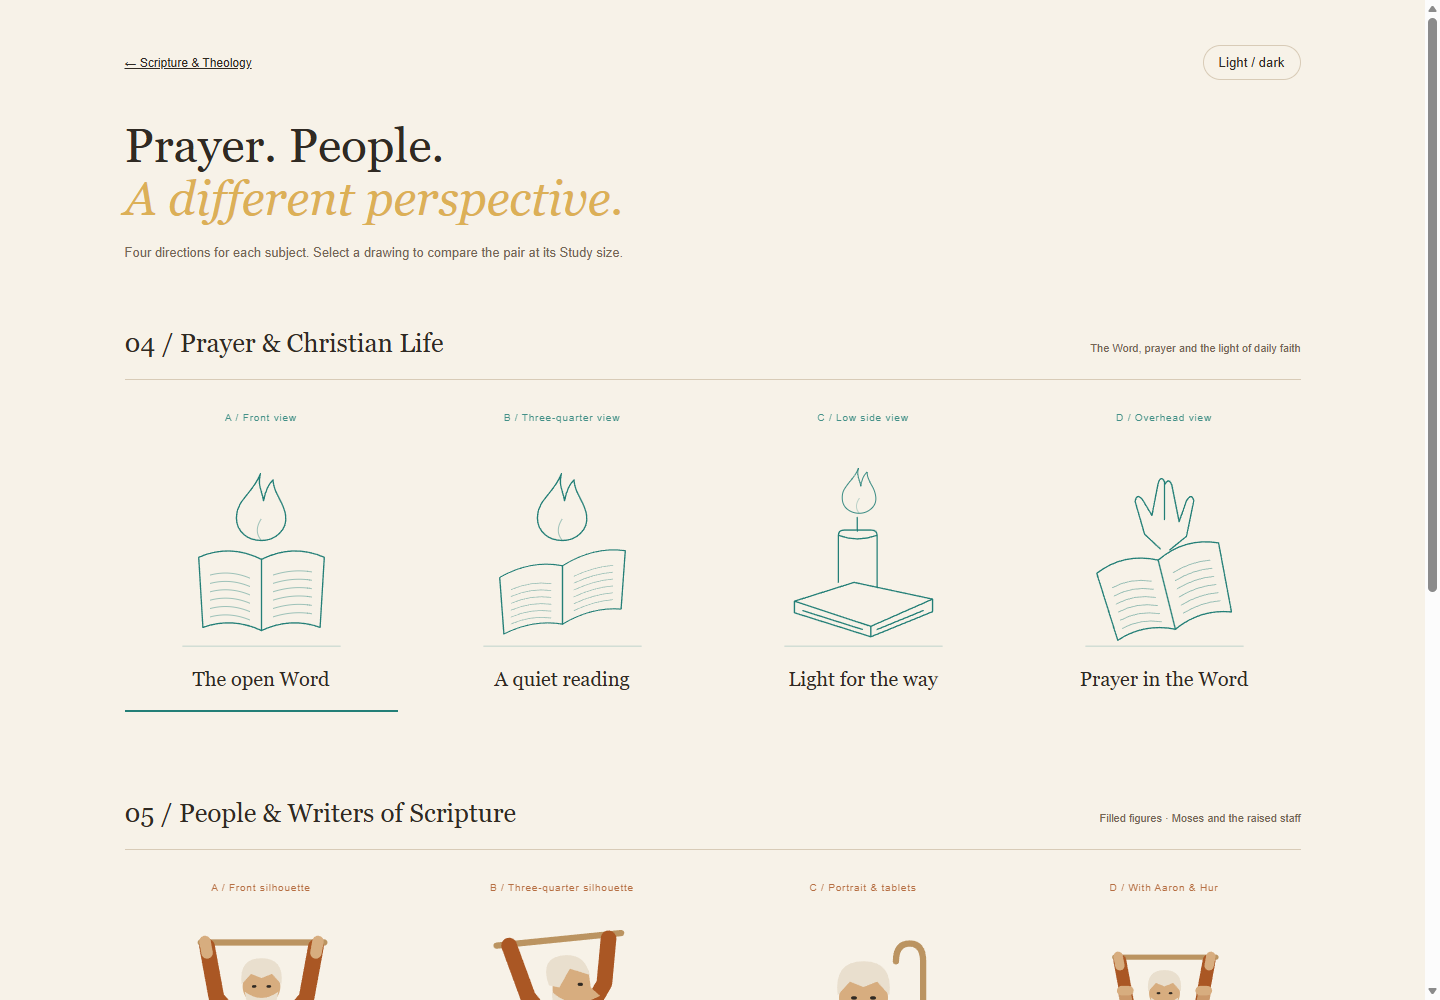
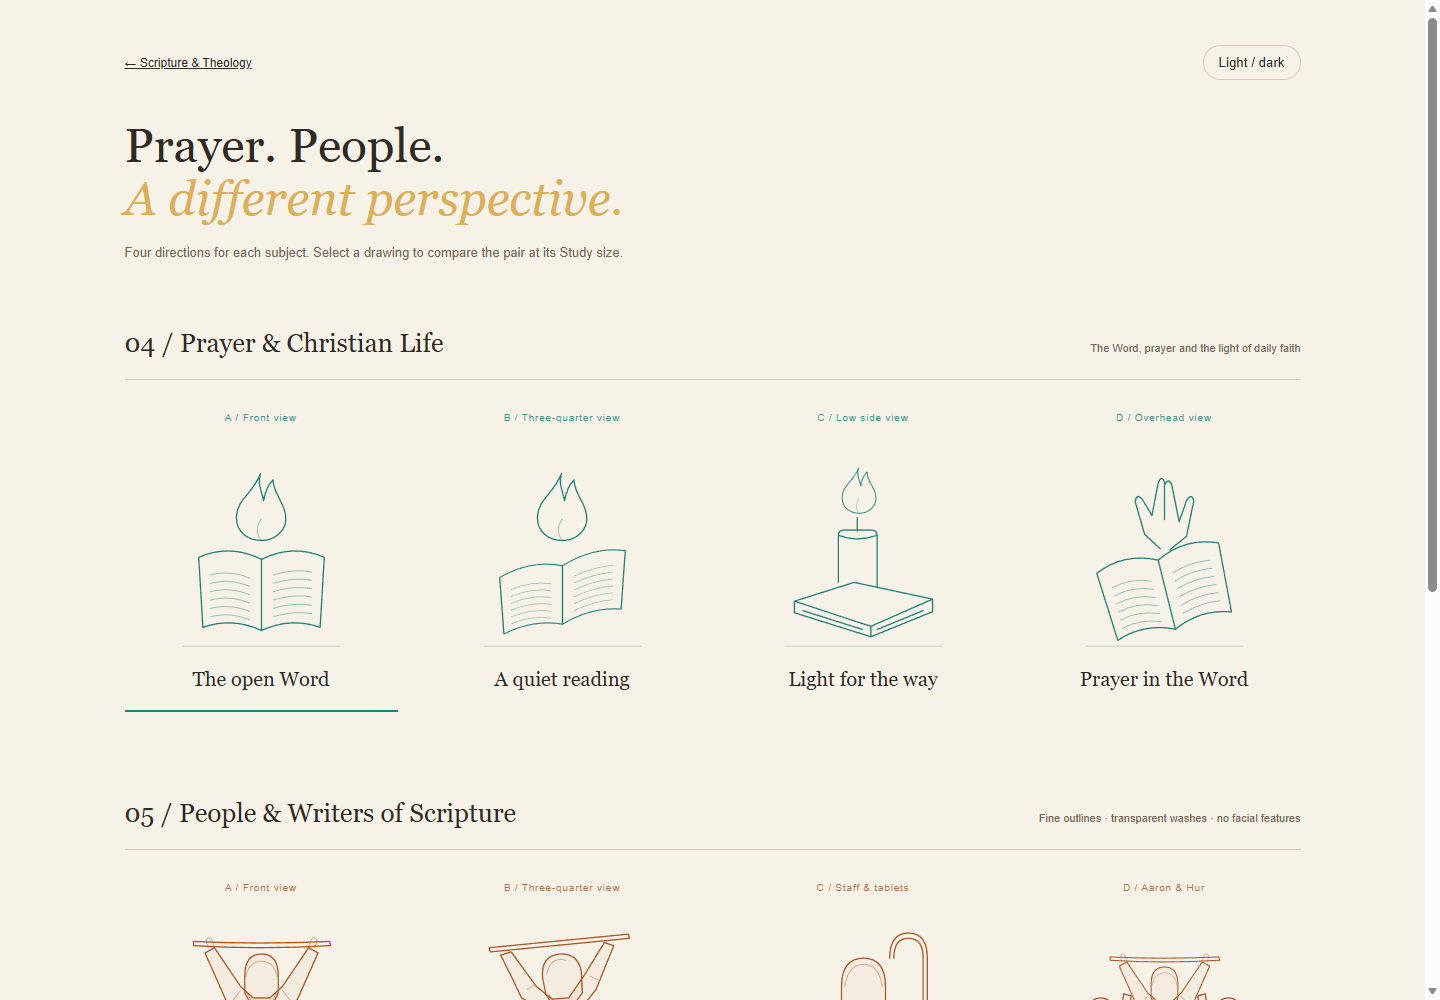
Redraw Moses variants as faceless transparent line art

diff --git a/design/study-prayer-writers-variants/index.html b/design/study-prayer-writers-variants/index.html
@@ -1,3 +1,3 @@
 <!doctype html><html lang="en"><head><meta charset="utf-8"><meta name="viewport" content="width=device-width,initial-scale=1"><title>Study · Prayer and writers variations</title><style>
 *{box-sizing:border-box}body{margin:0;background:#12110f;color:#eee7d9;font-family:Arial,sans-serif;--ink:#eee7d9;--muted:#a99b87;--line:#373128;--teal:#61c9bf;--orange:#e9a06b}.light{background:#f7f2e8;color:#302a23;--ink:#302a23;--muted:#746654;--line:#d8cbb7;--teal:#237f77;--orange:#aa5724}main{max-width:1240px;margin:auto;padding:45px 32px}nav{display:flex;justify-content:space-between;align-items:center;font-size:12px}a{color:inherit}nav button{background:none;color:inherit;border:1px solid var(--line);border-radius:22px;padding:9px 15px;cursor:pointer}h1{font:48px/1.1 Georgia,serif;margin:40px 0 15px}h1 em{color:#dcb057;font-weight:normal}p{color:var(--muted);font-size:13px;line-height:1.8}.section-head{display:flex;justify-content:space-between;align-items:baseline;gap:20px;border-bottom:1px solid var(--line);margin-top:42px}h2{font:26px Georgia,serif}.section-head span{font-size:11px;color:var(--muted)}.options{display:grid;grid-template-columns:repeat(4,1fr);gap:28px;padding:22px 0}.option{border:0;background:none;color:var(--teal);padding:10px 0 20px;cursor:pointer;text-align:center;border-bottom:2px solid transparent}.option.writers{color:var(--orange)}.code{font-size:10px;letter-spacing:.08em;display:block;opacity:.85}.option svg{width:100%;height:225px;display:block;margin:16px auto 4px;transition:transform .25s,filter .25s}svg{fill:none;stroke:currentColor;stroke-width:1.25;stroke-linecap:round;stroke-linejoin:round}.fine{opacity:.45;stroke-width:.9}.ground{opacity:.2}.option strong{font:20px Georgia,serif;color:var(--ink)}.option:hover svg{transform:translateY(-4px);filter:drop-shadow(0 0 8px color-mix(in srgb,currentColor 20%,transparent))}.option:focus-visible{outline:1px solid currentColor;outline-offset:5px}.option[aria-pressed=true]{border-bottom-color:currentColor}.preview{margin-top:35px;border-top:1px solid var(--line);padding-top:25px;display:grid;grid-template-columns:1fr 1fr;gap:60px}.preview h3{font:25px Georgia,serif}.selected{color:var(--teal)}.selected.writers{color:var(--orange)}.selected svg{display:block;width:200px;height:215px;margin:20px auto}.preview p{text-align:center}.label{font-size:10px;letter-spacing:.12em;color:var(--muted)}@media(max-width:700px){main{padding:24px 20px}h1{font-size:36px}.options{grid-template-columns:1fr 1fr;gap:20px}.option svg{height:190px}.section-head{display:block}.section-head span{display:block;margin-bottom:15px}.preview{gap:18px}.selected svg{width:100%}.preview h3{font-size:20px}}@media(prefers-reduced-motion:reduce){.option svg{transition:none}.option:hover svg{transform:none}}
-.filled-people{stroke:none;--skin:#d7ad7f;--hair:#ddd3bc;--robe:#956341;--wood:#bb9461;--stone:#b5a389;--ground:#12110f}.light .filled-people{--robe:#cb986a;--hair:#e9dfce;--ground:#302a23} </style></head><body><main><nav><a href="/study/theology">← Scripture &amp; Theology</a><button id="theme">Light / dark</button></nav><h1>Prayer. People.<br><em>A different perspective.</em></h1><p>Four directions for each subject. Select a drawing to compare the pair at its Study size.</p><section><div class="section-head"><h2>04 / Prayer &amp; Christian Life</h2><span>The Word, prayer and the light of daily faith</span></div><div class="options"><button class="option prayer" data-code="PRAYER A" data-title="The open Word"><span class="code">A / Front view</span><svg viewBox="0 0 200 215" aria-hidden="true"><path d="M40 113q30-13 60 2q30-15 60-2l-4 67q-28-10-56 3q-28-13-56-3Z"/><path d="M100 115v68"/><path class="fine" d="M51 130q19-5 38 3m22-3q19-6 37-3"/><path class="fine" d="M51 138q19-5 38 3m22-3q19-6 37-3"/><path class="fine" d="M51 146q19-5 38 3m22-3q19-6 37-3"/><path class="fine" d="M51 154q19-5 38 3m22-3q19-6 37-3"/><path class="fine" d="M51 162q19-5 38 3m22-3q19-6 37-3"/><path class="fine" d="M51 170q19-5 38 3m22-3q19-6 37-3"/><path d="M99 33c-7 19-23 25-23 42 0 14 11 22 24 22s25-10 23-24c-1-12-12-21-12-34-7 7-8 15-9 20-2-11-6-15-3-26Z"/><path class="fine" d="M100 76q-8 12 0 21"/><path class="ground" d="M25 198h150"/></svg><strong>The open Word</strong></button><button class="option prayer" data-code="PRAYER B" data-title="A quiet reading"><span class="code">B / Three-quarter view</span><svg viewBox="0 0 200 215" aria-hidden="true"><g transform="translate(100 149) skewY(-12) scale(1 .82) translate(-100 -149)"><path d="M40 113q30-13 60 2q30-15 60-2l-4 67q-28-10-56 3q-28-13-56-3Z"/><path d="M100 115v68"/><path class="fine" d="M51 130q19-5 38 3m22-3q19-6 37-3"/><path class="fine" d="M51 138q19-5 38 3m22-3q19-6 37-3"/><path class="fine" d="M51 146q19-5 38 3m22-3q19-6 37-3"/><path class="fine" d="M51 154q19-5 38 3m22-3q19-6 37-3"/><path class="fine" d="M51 162q19-5 38 3m22-3q19-6 37-3"/><path class="fine" d="M51 170q19-5 38 3m22-3q19-6 37-3"/></g><path d="M99 33c-7 19-23 25-23 42 0 14 11 22 24 22s25-10 23-24c-1-12-12-21-12-34-7 7-8 15-9 20-2-11-6-15-3-26Z"/><path class="fine" d="M100 76q-8 12 0 21"/><path class="ground" d="M25 198h150"/></svg><strong>A quiet reading</strong></button><button class="option prayer" data-code="PRAYER C" data-title="Light for the way"><span class="code">C / Low side view</span><svg viewBox="0 0 200 215" aria-hidden="true"><path d="M34 155 91 137l75 16-59 26Z M34 155v11l73 23 59-24v-12M107 179v10M42 164l57 18m14 0 44-18"/><path d="M76 137V92q0-5 6-5h25q6 0 6 5v50M76 92q18 7 37 0M94 88V75"/><g transform="translate(28 5) scale(.68)"><path d="M99 33c-7 19-23 25-23 42 0 14 11 22 24 22s25-10 23-24c-1-12-12-21-12-34-7 7-8 15-9 20-2-11-6-15-3-26Z"/><path class="fine" d="M100 76q-8 12 0 21"/></g><path class="ground" d="M25 198h150"/></svg><strong>Light for the way</strong></button><button class="option prayer" data-code="PRAYER D" data-title="Prayer in the Word"><span class="code">D / Overhead view</span><svg viewBox="0 0 200 215" aria-hidden="true"><g transform="rotate(-14 100 140)"><path d="M40 113q30-13 60 2q30-15 60-2l-4 67q-28-10-56 3q-28-13-56-3Z"/><path d="M100 115v68"/><path class="fine" d="M51 130q19-5 38 3m22-3q19-6 37-3"/><path class="fine" d="M51 138q19-5 38 3m22-3q19-6 37-3"/><path class="fine" d="M51 146q19-5 38 3m22-3q19-6 37-3"/><path class="fine" d="M51 154q19-5 38 3m22-3q19-6 37-3"/><path class="fine" d="M51 162q19-5 38 3m22-3q19-6 37-3"/><path class="fine" d="M51 170q19-5 38 3m22-3q19-6 37-3"/></g><path d="M88 73 94 42q3-8 6-1v36m0-33q4-8 7 0l7 35m-26-6-9-15q-6-7-7 2l9 31 15 14m18-26 7-20q5-8 7 0l-7 34-16 13"/><path class="ground" d="M25 198h150"/></svg><strong>Prayer in the Word</strong></button></div></section><section><div class="section-head"><h2>05 / People &amp; Writers of Scripture</h2><span>Filled figures · Moses and the raised staff</span></div><div class="options"><button class="option writers" data-code="WRITERS A" data-title="Moses · staff raised"><span class="code">A / Front silhouette</span><svg class="filled-people" viewBox="0 0 200 215" aria-hidden="true"><path d="M42 32h118" stroke="var(--wood)" stroke-width="6" stroke-linecap="round"/><path d="M82 114 57 85 48 36m70 78 25-29 9-49" stroke="currentColor" stroke-width="15" stroke-linecap="round"/><path d="m48 42-2-11m106 11 2-11" stroke="var(--skin)" stroke-width="11" stroke-linecap="round"/><path d="M80 105q20-9 40 0l16 84H64Z" fill="currentColor"/><path d="M86 108l14 29 15-29-7 81H85Z" fill="var(--robe)"/><path d="M91 139v41m21-40-3 39" stroke="var(--ground)" opacity=".3"/><circle cx="100" cy="74" r="18" fill="var(--skin)"/><path d="M81 72q-3-25 19-25t19 25l-9-10-10 4-10-4Z" fill="var(--hair)"/><path d="M84 79q16 12 32 0l-4 22-12 10-12-10Z" fill="var(--hair)"/><path d="M92 74h2m12 0h2" stroke="var(--ground)" stroke-width="2.5"/></svg><strong>Moses · staff raised</strong></button><button class="option writers" data-code="WRITERS B" data-title="Moses · on the hill"><span class="code">B / Three-quarter silhouette</span><svg class="filled-people" viewBox="0 0 200 215" aria-hidden="true"><g transform="translate(8 0)"><path d="M29 35 148 23" stroke="var(--wood)" stroke-width="6"/><path d="M85 116 59 84 41 35m65 81 26-45 4-43" stroke="currentColor" stroke-width="15" stroke-linecap="round"/><path d="M80 105q20-9 40 0l16 84H64Z" fill="currentColor"/><path d="M86 108l14 29 15-29-7 81H85Z" fill="var(--robe)"/><path d="M91 139v41m21-40-3 39" stroke="var(--ground)" opacity=".3"/><path d="M82 58q23-19 35 2l2 15 9 8-11 5-2 16-17 5-15-19Z" fill="var(--skin)"/><path d="M82 79q14 14 35 9l-3 17-15 13-16-22Z" fill="var(--hair)"/><path d="M79 73q-10-28 17-29 18 0 22 19l-19-6-10 18Z" fill="var(--hair)"/><path d="M108 72h2" stroke="var(--ground)" stroke-width="3"/></g></svg><strong>Moses · on the hill</strong></button><button class="option writers" data-code="WRITERS C" data-title="Moses · the lawgiver"><span class="code">C / Portrait & tablets</span><svg class="filled-people" viewBox="0 0 200 215" aria-hidden="true"><path d="M48 185q0-69 52-69t52 69Z" fill="currentColor"/><path d="m82 118 18 32 18-32-6 67H85Z" fill="var(--robe)"/><g transform="translate(100 85) scale(1.3) translate(-100 -74)"><circle cx="100" cy="74" r="18" fill="var(--skin)"/><path d="M81 72q-3-25 19-25t19 25l-9-10-10 4-10-4Z" fill="var(--hair)"/><path d="M84 79q16 12 32 0l-4 22-12 10-12-10Z" fill="var(--hair)"/><path d="M92 74h2m12 0h2" stroke="var(--ground)" stroke-width="2.5"/></g><path d="M157 187V50q0-17-13-17t-13 17" stroke="var(--wood)" stroke-width="6"/><path d="M67 145h37v45H67Zm40 0h30v45h-30Z" fill="var(--stone)"/><path d="M73 156h24m-24 9h24m-24 9h24m17-18h16m-16 9h16m-16 9h16" stroke="var(--ground)" opacity=".45"/></svg><strong>Moses · the lawgiver</strong></button><button class="option writers" data-code="WRITERS D" data-title="Moses · supported hands"><span class="code">D / With Aaron & Hur</span><svg class="filled-people" viewBox="0 0 200 215" aria-hidden="true"><g transform="translate(100 110) scale(.82) translate(-100 -110)"><path d="M42 32h118" stroke="var(--wood)" stroke-width="6" stroke-linecap="round"/><path d="M82 114 57 85 48 36m70 78 25-29 9-49" stroke="currentColor" stroke-width="15" stroke-linecap="round"/><path d="m48 42-2-11m106 11 2-11" stroke="var(--skin)" stroke-width="11" stroke-linecap="round"/><path d="M80 105q20-9 40 0l16 84H64Z" fill="currentColor"/><path d="M86 108l14 29 15-29-7 81H85Z" fill="var(--robe)"/><path d="M91 139v41m21-40-3 39" stroke="var(--ground)" opacity=".3"/><circle cx="100" cy="74" r="18" fill="var(--skin)"/><path d="M81 72q-3-25 19-25t19 25l-9-10-10 4-10-4Z" fill="var(--hair)"/><path d="M84 79q16 12 32 0l-4 22-12 10-12-10Z" fill="var(--hair)"/><path d="M92 74h2m12 0h2" stroke="var(--ground)" stroke-width="2.5"/></g><path d="M30 189v-45q0-20 15-20t15 20v45Z M140 189v-45q0-20 15-20t15 20v45Z" fill="var(--robe)"/><circle cx="45" cy="106" r="14" fill="var(--skin)"/><circle cx="155" cy="106" r="14" fill="var(--skin)"/><path d="M35 109q10 8 20 0v13H35Zm110 0q10 8 20 0v13h-20Z" fill="var(--hair)"/><path d="M52 140 66 104 62 81m86 59-14-36 4-23" stroke="var(--robe)" stroke-width="12" stroke-linecap="round"/><path d="M59 78h7m68 0h7" stroke="var(--skin)" stroke-width="9"/></svg><strong>Moses · supported hands</strong></button></div></section><div class="preview"><div class="selected prayer"><span class="label">04 / SELECTED DIRECTION</span><div class="art"></div><h3>Prayer &amp; Christian Life</h3><p></p></div><div class="selected writers"><span class="label">05 / SELECTED DIRECTION</span><div class="art"></div><h3>People &amp; Writers of Scripture</h3><p></p></div></div></main><script>document.querySelector('#theme').onclick=()=>document.body.classList.toggle('light');for(const kind of ['prayer','writers']){const buttons=[...document.querySelectorAll('.option.'+kind)];for(const button of buttons)button.onclick=()=>{buttons.forEach(b=>b.setAttribute('aria-pressed',String(b===button)));document.querySelector('.selected.'+kind+' .art').innerHTML=button.querySelector('svg').outerHTML;document.querySelector('.selected.'+kind+' p').textContent=button.dataset.code+' · '+button.dataset.title};buttons[0].click()}</script></body></html>
+.moses-lines{fill:none;stroke:currentColor;stroke-width:1.25}.moses-lines .wash{fill:currentColor;fill-opacity:.045}.moses-lines .detail{stroke-width:.85;opacity:.5}.moses-lines .ground{stroke-width:.8;opacity:.25} </style></head><body><main><nav><a href="/study/theology">← Scripture &amp; Theology</a><button id="theme">Light / dark</button></nav><h1>Prayer. People.<br><em>A different perspective.</em></h1><p>Four directions for each subject. Select a drawing to compare the pair at its Study size.</p><section><div class="section-head"><h2>04 / Prayer &amp; Christian Life</h2><span>The Word, prayer and the light of daily faith</span></div><div class="options"><button class="option prayer" data-code="PRAYER A" data-title="The open Word"><span class="code">A / Front view</span><svg viewBox="0 0 200 215" aria-hidden="true"><path d="M40 113q30-13 60 2q30-15 60-2l-4 67q-28-10-56 3q-28-13-56-3Z"/><path d="M100 115v68"/><path class="fine" d="M51 130q19-5 38 3m22-3q19-6 37-3"/><path class="fine" d="M51 138q19-5 38 3m22-3q19-6 37-3"/><path class="fine" d="M51 146q19-5 38 3m22-3q19-6 37-3"/><path class="fine" d="M51 154q19-5 38 3m22-3q19-6 37-3"/><path class="fine" d="M51 162q19-5 38 3m22-3q19-6 37-3"/><path class="fine" d="M51 170q19-5 38 3m22-3q19-6 37-3"/><path d="M99 33c-7 19-23 25-23 42 0 14 11 22 24 22s25-10 23-24c-1-12-12-21-12-34-7 7-8 15-9 20-2-11-6-15-3-26Z"/><path class="fine" d="M100 76q-8 12 0 21"/><path class="ground" d="M25 198h150"/></svg><strong>The open Word</strong></button><button class="option prayer" data-code="PRAYER B" data-title="A quiet reading"><span class="code">B / Three-quarter view</span><svg viewBox="0 0 200 215" aria-hidden="true"><g transform="translate(100 149) skewY(-12) scale(1 .82) translate(-100 -149)"><path d="M40 113q30-13 60 2q30-15 60-2l-4 67q-28-10-56 3q-28-13-56-3Z"/><path d="M100 115v68"/><path class="fine" d="M51 130q19-5 38 3m22-3q19-6 37-3"/><path class="fine" d="M51 138q19-5 38 3m22-3q19-6 37-3"/><path class="fine" d="M51 146q19-5 38 3m22-3q19-6 37-3"/><path class="fine" d="M51 154q19-5 38 3m22-3q19-6 37-3"/><path class="fine" d="M51 162q19-5 38 3m22-3q19-6 37-3"/><path class="fine" d="M51 170q19-5 38 3m22-3q19-6 37-3"/></g><path d="M99 33c-7 19-23 25-23 42 0 14 11 22 24 22s25-10 23-24c-1-12-12-21-12-34-7 7-8 15-9 20-2-11-6-15-3-26Z"/><path class="fine" d="M100 76q-8 12 0 21"/><path class="ground" d="M25 198h150"/></svg><strong>A quiet reading</strong></button><button class="option prayer" data-code="PRAYER C" data-title="Light for the way"><span class="code">C / Low side view</span><svg viewBox="0 0 200 215" aria-hidden="true"><path d="M34 155 91 137l75 16-59 26Z M34 155v11l73 23 59-24v-12M107 179v10M42 164l57 18m14 0 44-18"/><path d="M76 137V92q0-5 6-5h25q6 0 6 5v50M76 92q18 7 37 0M94 88V75"/><g transform="translate(28 5) scale(.68)"><path d="M99 33c-7 19-23 25-23 42 0 14 11 22 24 22s25-10 23-24c-1-12-12-21-12-34-7 7-8 15-9 20-2-11-6-15-3-26Z"/><path class="fine" d="M100 76q-8 12 0 21"/></g><path class="ground" d="M25 198h150"/></svg><strong>Light for the way</strong></button><button class="option prayer" data-code="PRAYER D" data-title="Prayer in the Word"><span class="code">D / Overhead view</span><svg viewBox="0 0 200 215" aria-hidden="true"><g transform="rotate(-14 100 140)"><path d="M40 113q30-13 60 2q30-15 60-2l-4 67q-28-10-56 3q-28-13-56-3Z"/><path d="M100 115v68"/><path class="fine" d="M51 130q19-5 38 3m22-3q19-6 37-3"/><path class="fine" d="M51 138q19-5 38 3m22-3q19-6 37-3"/><path class="fine" d="M51 146q19-5 38 3m22-3q19-6 37-3"/><path class="fine" d="M51 154q19-5 38 3m22-3q19-6 37-3"/><path class="fine" d="M51 162q19-5 38 3m22-3q19-6 37-3"/><path class="fine" d="M51 170q19-5 38 3m22-3q19-6 37-3"/></g><path d="M88 73 94 42q3-8 6-1v36m0-33q4-8 7 0l7 35m-26-6-9-15q-6-7-7 2l9 31 15 14m18-26 7-20q5-8 7 0l-7 34-16 13"/><path class="ground" d="M25 198h150"/></svg><strong>Prayer in the Word</strong></button></div></section><section><div class="section-head"><h2>05 / People &amp; Writers of Scripture</h2><span>Fine outlines · transparent washes · no facial features</span></div><div class="options"><button class="option writers" data-code="WRITERS A" data-title="Moses · staff raised"><span class="code">A / Front view</span><svg class="moses-lines" viewBox="0 0 200 215" aria-hidden="true"><path d="M35 31q63 3 130 0l1 4q-69 4-131 0Z"/><path class="detail" d="m49 37-2-7q3-5 6 0l2 7m90 0 2-7q3-5 6 0l-2 7"/><path class="wash" d="M84 98 66 87 46 42l9-5 25 37 12 11h16l12-11 25-37 9 5-20 45-18 11 13 89q-29 10-58 0Z"/><path class="detail" d="m80 78-8 10m48-10 8 10M91 91l9 21 9-21m-9 21v72m-14-73-5 71m34-71 5 71M84 133q16 7 32 0"/><path class="wash" d="M84 80V64q0-21 16-21t16 21v16l-7 15H92Z"/><path class="detail" d="M85 65q3-15 15-15t15 15m-29 15 7 13m21-13-6 13"/><path class="ground" d="M50 194q48-8 100 0"/></svg><strong>Moses · staff raised</strong></button><button class="option writers" data-code="WRITERS B" data-title="Moses · on the hill"><span class="code">B / Three-quarter view</span><svg class="moses-lines" viewBox="0 0 200 215" aria-hidden="true"><path d="m30 37 133-13 1 4L31 41Z"/><path class="wash" d="M87 100 61 85 41 44l10-3 24 33 15 12 16-1 15-22 19-31 9 3-17 42-19 24 16 85q-27 12-59 4Z"/><path class="wash" d="M84 81 81 66q-2-21 16-23 18-1 21 17l1 20-12 17-15-2Z"/><path class="detail" d="M85 62q4-17 18-13m-16 33 8 10 11-1m-15 12 10 19 10-22m-10 22-4 62m-10-63-6 65m35-67 7 63M78 140q20 5 39-5m-51-58 8-5m52-8 8 4"/><path class="ground" d="M48 195q53-10 108-3"/></svg><strong>Moses · on the hill</strong></button><button class="option writers" data-code="WRITERS C" data-title="Moses · the lawgiver"><span class="code">C / Staff & tablets</span><svg class="moses-lines" viewBox="0 0 200 215" aria-hidden="true"><path class="wash" d="M55 183q1-52 29-65l16 10 16-10q29 13 30 65Z"/><path class="wash" d="M79 100V74q0-27 21-27t21 27v26l-12 20H91Z"/><path class="detail" d="M82 75q3-22 18-22t18 22m-37 25 12 15m26-15-11 15M78 124l-11 48m58-48 10 48"/><path d="M157 187V47q0-19-14-19t-14 19m32 140V47q0-24-18-24t-18 24"/><path class="wash" d="M68 185v-39a15 15 0 0 1 30 0v39Zm34 0v-39a15 15 0 0 1 30 0v39Z"/><path class="detail" d="M75 151h16m-16 8h16m-16 8h16m-16 8h16m18-24h16m-16 8h16m-16 8h16m-16 8h16"/><path class="ground" d="M43 194h124"/></svg><strong>Moses · the lawgiver</strong></button><button class="option writers" data-code="WRITERS D" data-title="Moses · supported hands"><span class="code">D / Aaron & Hur</span><svg class="moses-lines" viewBox="0 0 200 215" aria-hidden="true"><g transform="translate(100 105) scale(.8) translate(-100 -105)"><path d="M35 31q63 3 130 0l1 4q-69 4-131 0Z"/><path class="detail" d="m49 37-2-7q3-5 6 0l2 7m90 0 2-7q3-5 6 0l-2 7"/><path class="wash" d="M84 98 66 87 46 42l9-5 25 37 12 11h16l12-11 25-37 9 5-20 45-18 11 13 89q-29 10-58 0Z"/><path class="detail" d="m80 78-8 10m48-10 8 10M91 91l9 21 9-21m-9 21v72m-14-73-5 71m34-71 5 71M84 133q16 7 32 0"/><path class="wash" d="M84 80V64q0-21 16-21t16 21v16l-7 15H92Z"/><path class="detail" d="M85 65q3-15 15-15t15 15m-29 15 7 13m21-13-6 13"/></g><path class="wash" d="M24 190v-45q0-18 15-22l10 3 11 15-1 49Z"/><path class="wash" d="M28 112V98q0-13 11-13t11 13v14l-7 9h-9Z"/><path class="wash" d="m47 129 11-26 3-22 7 2-2 27-9 33Z"/><path class="detail" d="m35 134-2 48m13-33 3 32M31 98q8-14 16 0"/><g transform="translate(200 0) scale(-1 1)"><path class="wash" d="M24 190v-45q0-18 15-22l10 3 11 15-1 49Z"/><path class="wash" d="M28 112V98q0-13 11-13t11 13v14l-7 9h-9Z"/><path class="wash" d="m47 129 11-26 3-22 7 2-2 27-9 33Z"/><path class="detail" d="m35 134-2 48m13-33 3 32M31 98q8-14 16 0"/></g><path class="ground" d="M17 195h166"/></svg><strong>Moses · supported hands</strong></button></div></section><div class="preview"><div class="selected prayer"><span class="label">04 / SELECTED DIRECTION</span><div class="art"></div><h3>Prayer &amp; Christian Life</h3><p></p></div><div class="selected writers"><span class="label">05 / SELECTED DIRECTION</span><div class="art"></div><h3>People &amp; Writers of Scripture</h3><p></p></div></div></main><script>document.querySelector('#theme').onclick=()=>document.body.classList.toggle('light');for(const kind of ['prayer','writers']){const buttons=[...document.querySelectorAll('.option.'+kind)];for(const button of buttons)button.onclick=()=>{buttons.forEach(b=>b.setAttribute('aria-pressed',String(b===button)));document.querySelector('.selected.'+kind+' .art').innerHTML=button.querySelector('svg').outerHTML;document.querySelector('.selected.'+kind+' p').textContent=button.dataset.code+' · '+button.dataset.title};buttons[0].click()}</script></body></html>
